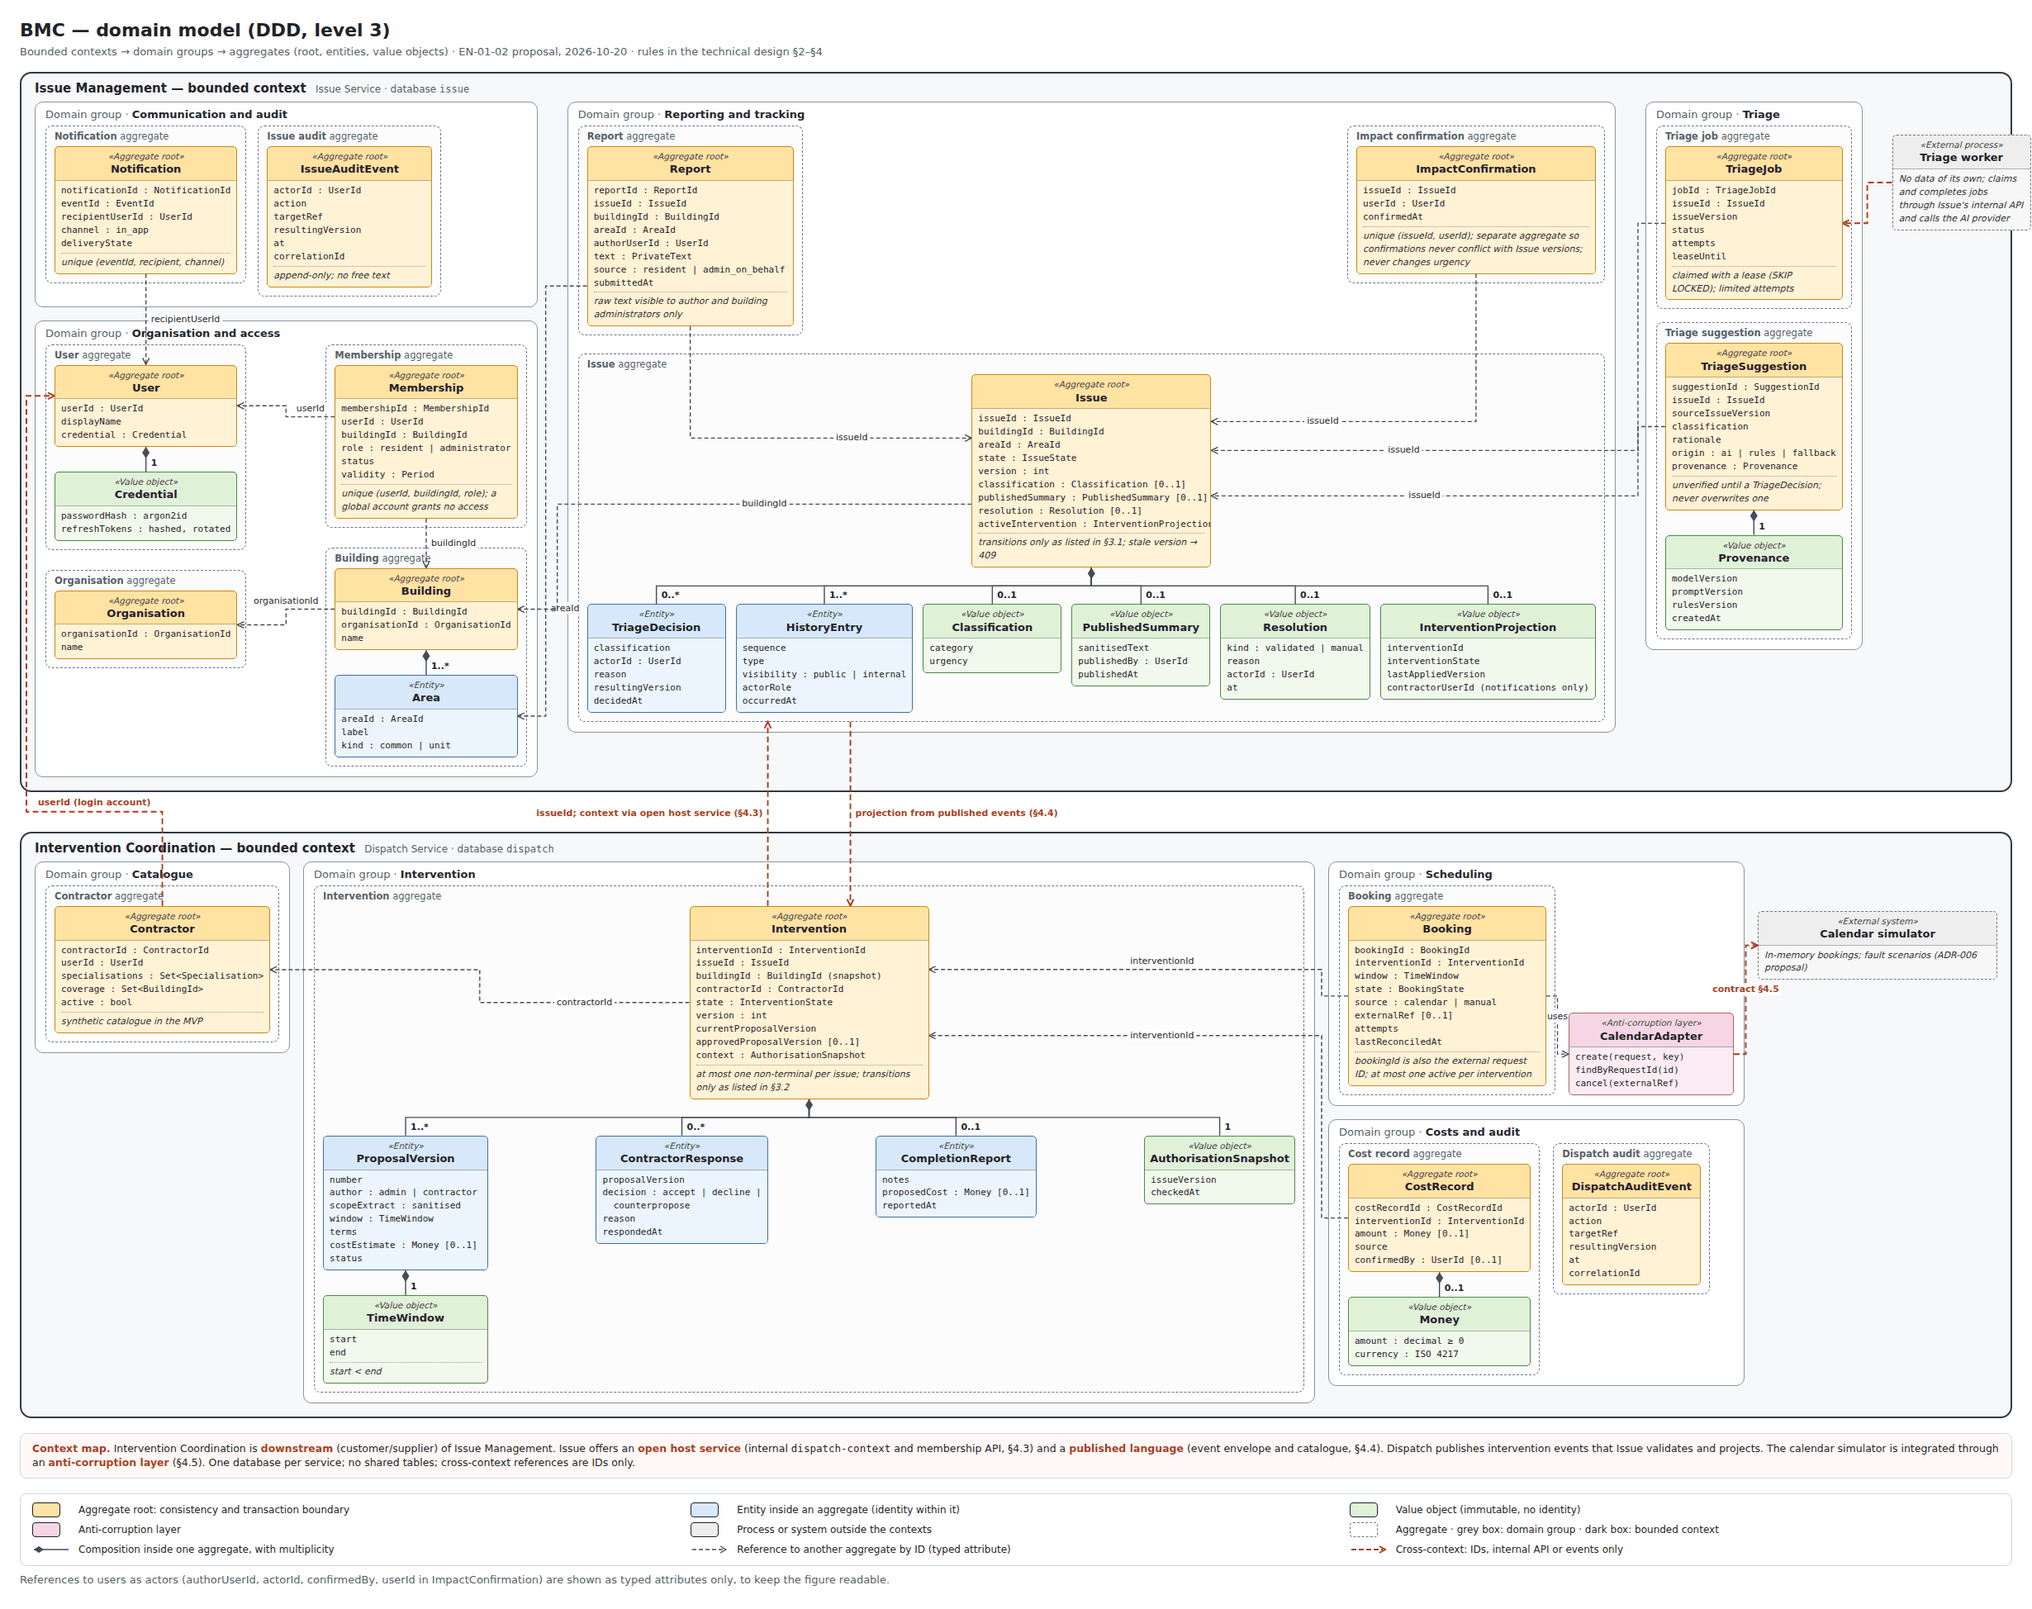
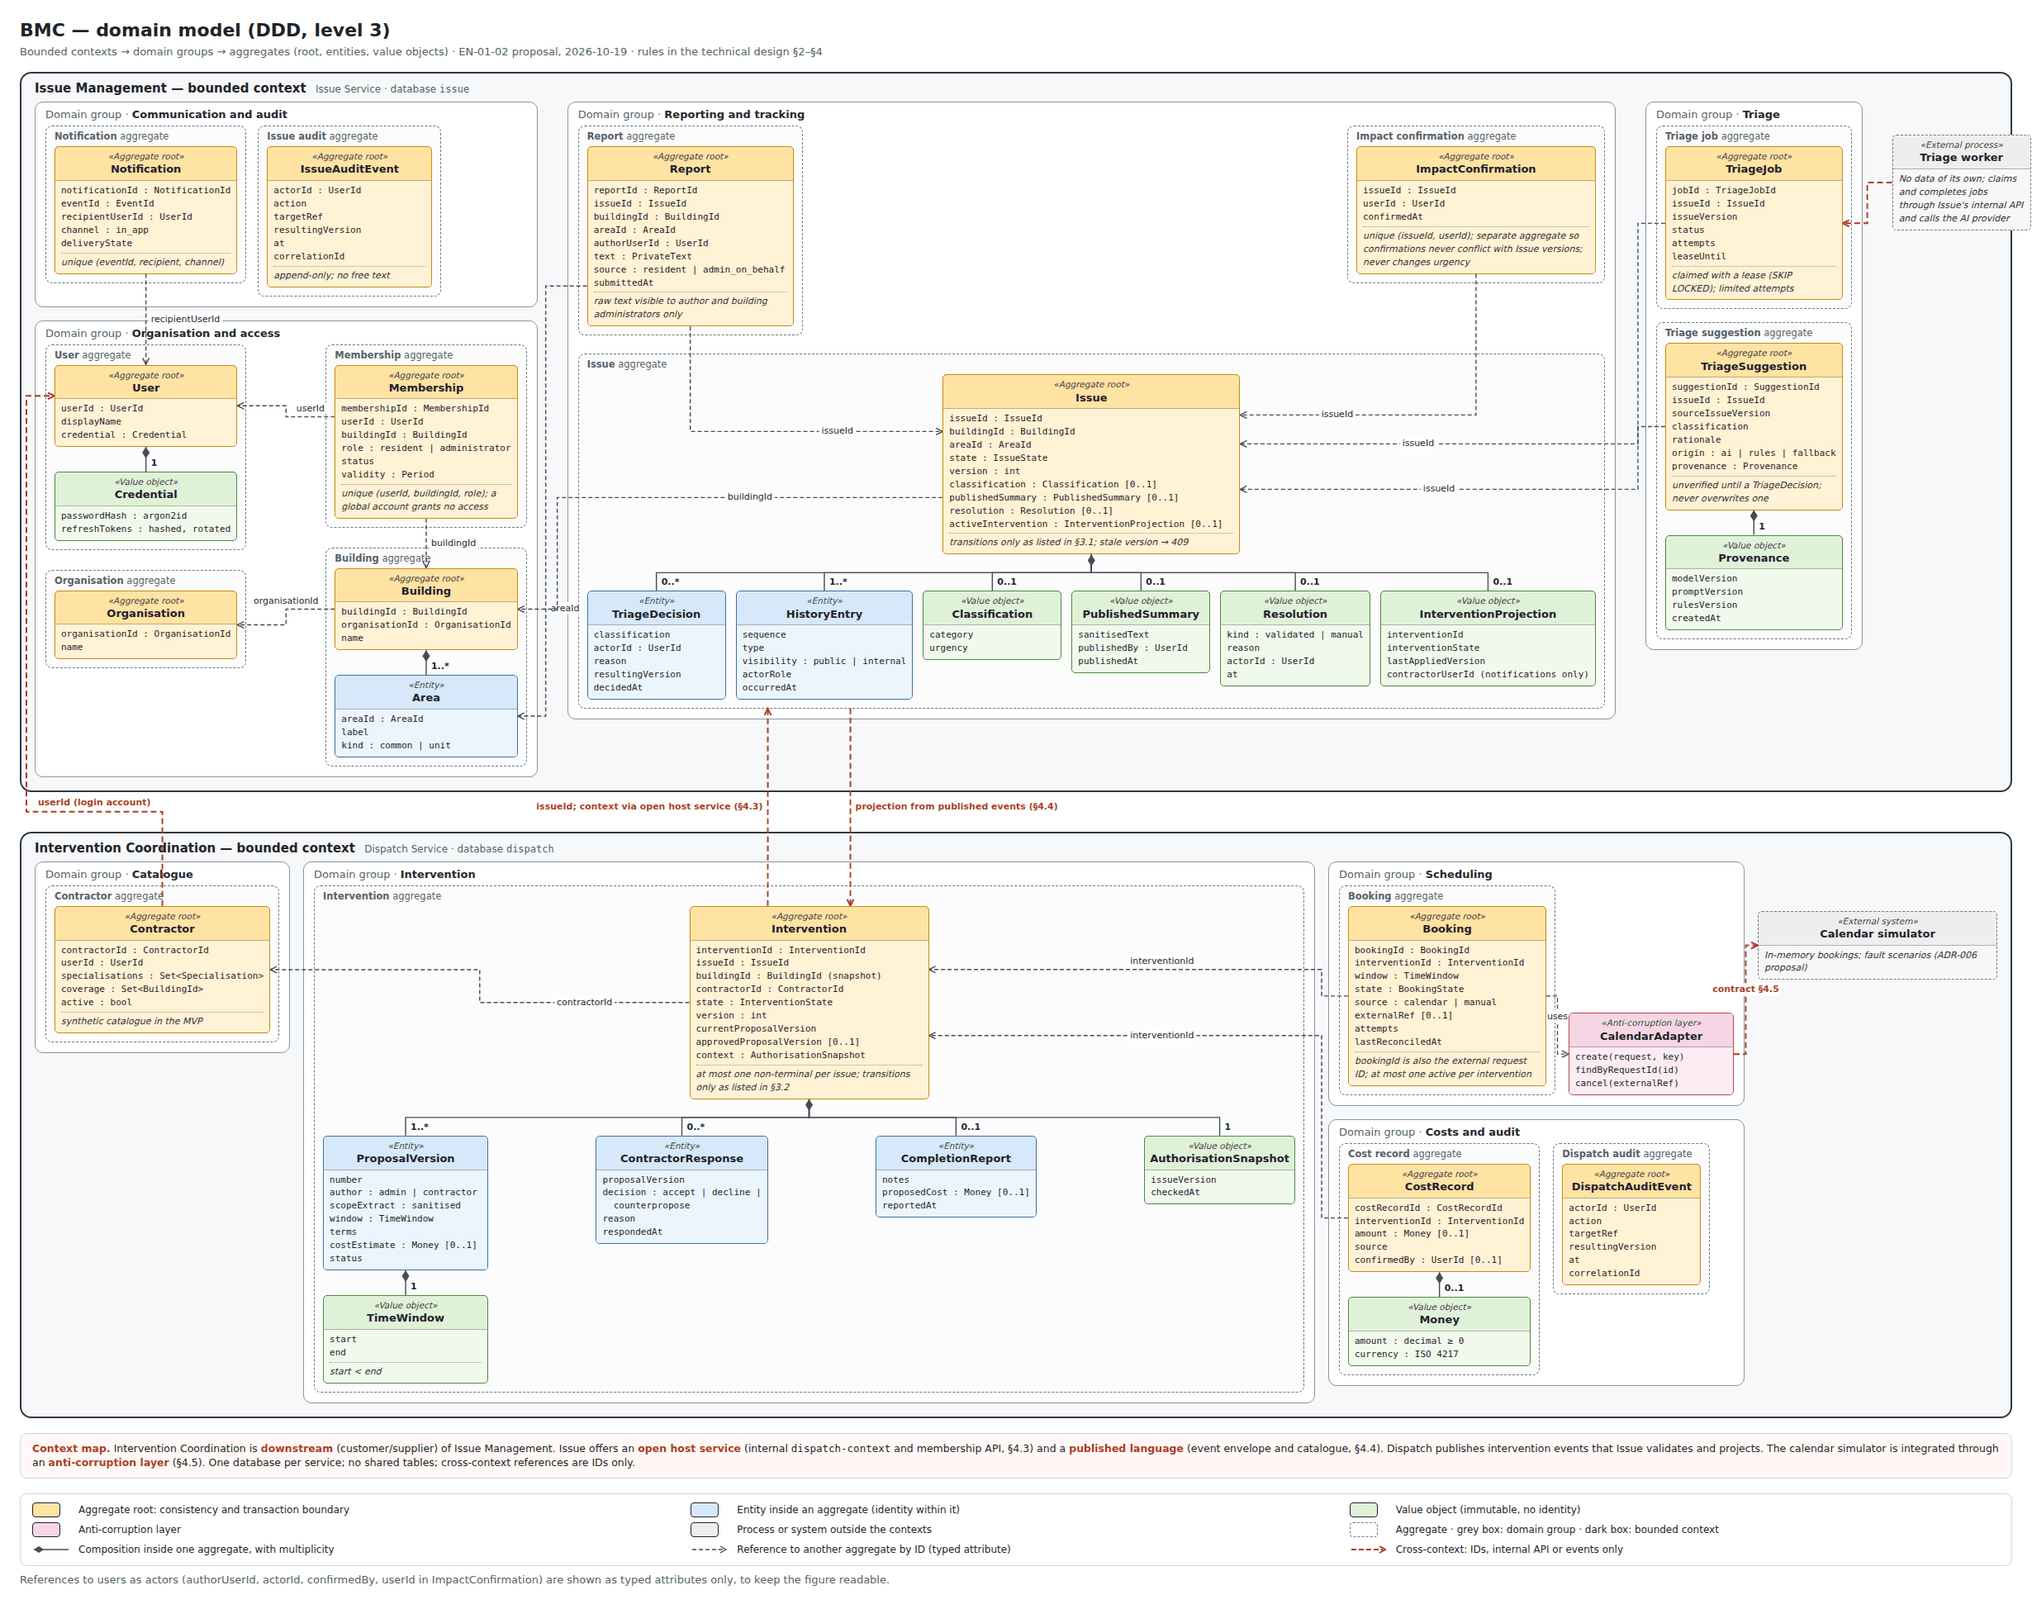
EN-01-02: fix review typos, arithmetic and figure details
Address review L1, L2, L4-L6 and N1-N3 on #44: correct the relay wait total, add in_triage to W1, fix typos and spacing, link both sections for T-04, fix the DISC-03-03 issue link, name the three figure-only types in the text, correct the Figure 1 date, widen the Issue box and export a smaller PNG.

Refs #14

diff --git a/documents/diagrams/domain-model.html b/documents/diagrams/domain-model.html
@@ -73,7 +73,7 @@
 <body>
 <div id="canvas">
   <h1>BMC — domain model (DDD, level 3)</h1>
-  <p class="sub">Bounded contexts → domain groups → aggregates (root, entities, value objects) · EN-01-02 proposal, 2026-10-20 · rules in the technical design §2–§4</p>
+  <p class="sub">Bounded contexts → domain groups → aggregates (root, entities, value objects) · EN-01-02 proposal, 2026-10-19 · rules in the technical design §2–§4</p>
 
   <!-- ===================== ISSUE MANAGEMENT ===================== -->
   <div class="bc" id="BC_ISSUE">
@@ -151,7 +151,7 @@
         </div>
         <div class="agg" id="AGG_ISSUE" style="margin-top:22px">
           <div class="agg-name">Issue</div>
-          <div class="row center"><div class="cls root" id="Issue" style="width:300px"><div class="hd"><span class="st">«Aggregate root»</span><span class="nm">Issue</span></div>
+          <div class="row center"><div class="cls root" id="Issue" style="width:360px;max-width:none"><div class="hd"><span class="st">«Aggregate root»</span><span class="nm">Issue</span></div>
             <ul><li>issueId : IssueId</li><li>buildingId : BuildingId</li><li>areaId : AreaId</li><li>state : IssueState</li><li>version : int</li><li>classification : Classification [0..1]</li><li>publishedSummary : PublishedSummary [0..1]</li><li>resolution : Resolution [0..1]</li><li>activeIntervention : InterventionProjection [0..1]</li>
             <li class="inv">transitions only as listed in §3.1; stale version → 409</li></ul></div></div>
           <div class="row" style="margin-top:44px; gap:12px; justify-content:space-between">

diff --git a/documents/07-technical-design.md b/documents/07-technical-design.md
@@ -27,7 +27,7 @@ Reviewed on 2026-10-19 for EN-01-02 ([Issue: 14](https://github.com/Phenriqueraf
 
 [![Figure 1 — BMC domain model (DDD level 3): the Issue Management and Intervention Coordination bounded contexts, their domain groups, and every aggregate with its root, entities, value objects and references](diagrams/domain-model.png)](diagrams/domain-model.png)
 
-*Figure 1 — Domain model, DDD level 3 ([editable HTML source](diagrams/domain-model.html); open the image for full size).* Each bounded context is one service with its own database. Domain groups collect related aggregates. A dashed frame is an aggregate, the consistency and transaction boundary: one root (yellow) plus its entities (blue) and value objects (green). Other aggregates are referenced by typed IDs only (grey dashed arrows); red arrows are the cross-context relations: IDs, the internal API (§4.3) or published events (§4.4), never shared tables. Two choices are deliberate. `ImpactConfirmation` and `TriageSuggestion` are separate aggregates, so concurrent confirmations and late AI results never conflict with the `Issue` version. `Booking` is separate from `Intervention`, so calendar retries and reconciliation do not lock the intervention. The tables below list the same entities with their journeys.
+*Figure 1 — Domain model, DDD level 3 ([editable HTML source](diagrams/domain-model.html); open the image for full size).* Each bounded context is one service with its own database. Domain groups collect related aggregates. A dashed frame is an aggregate, the consistency and transaction boundary: one root (yellow) plus its entities (blue) and value objects (green). Other aggregates are referenced by typed IDs only (grey dashed arrows); red arrows are the cross-context relations: IDs, the internal API (§4.3) or published events (§4.4), never shared tables. Two choices are deliberate. `ImpactConfirmation` and `TriageSuggestion` are separate aggregates, so concurrent confirmations and late AI results never conflict with the `Issue` version. `Booking` is separate from `Intervention`, so calendar retries and reconciliation do not lock the intervention. The tables below list the same entities with their journeys. Three figure names have no row of their own: `InterventionProjection` is the issue's projection of the active intervention (2.1), `AuthorisationSnapshot` is the snapshot stored by Dispatch (4.3 step 4), and `CalendarAdapter` is the calendar adapter (4.5).
 
 ### 2.1 Issue Service
 
@@ -41,7 +41,7 @@ Reviewed on 2026-10-19 for EN-01-02 ([Issue: 14](https://github.com/Phenriqueraf
 | Report | `id`, `issueId`, `buildingId`, `areaId`, `authorUserId`, private text, source (`resident` or `administrator_on_behalf`), `submittedAt` | J1 steps 1–2; raw text stays private ([access matrix](09-security-privacy.md#2-proposed-access-matrix)) |
 | Issue | `id`, `buildingId`, `areaId`, state, `version`, category, urgency, triage source, optional published summary, resolution (kind, reason, actor, time), projection of the active intervention (`interventionId`, state, last applied `aggregateVersion`, `contractorUserId` used only to address notifications) | 1:N reports; J1 step 4, J2 |
 | Triage job | `id`, `issueId`, `issueVersion`, status, attempts, lease expiry | Created with the report; claimed by the worker (ADR-003 in [Issue: 15](https://github.com/Phenriquerafael/LABDSOF_G9A/issues/15)) |
-| Triage suggestion | `issueId`, source issue version, category, urgency, rationale, origin (`ai`, `rules` or `fallback`), model/prompt/rules versions, time | Labelled unverified until a triage decision have been made ([AI Responsibility  Section: 2](06-responsible-ai-assessment.md#2-baseline-and-fallback)) |
+| Triage suggestion | `issueId`, source issue version, category, urgency, rationale, origin (`ai`, `rules` or `fallback`), model/prompt/rules versions, time | Labelled unverified until a triage decision has been made ([AI Responsibility Section: 2](06-responsible-ai-assessment.md#2-baseline-and-fallback)) |
 | Triage decision | `issueId`, category, urgency, actor, reason, resulting version, time | The [DEC-10](planning/decisions-and-feedback.md#1-open-decisions) “triage decision”; distinct from the suggestion |
 | Impact confirmation | Unique (`issueId`, `userId`), time; withdrawal deletes the row | J1 step 4; never changes urgency (RF-04) |
 | Issue history entry | `issueId`, sequence, type, visibility (`public` or `internal`), actor role, time; includes projected Dispatch events | J1 step 4 and J2; residents see only public entries |
@@ -67,7 +67,7 @@ Both services also hold technical tables for the asynchronous workflow (outbox, 
 
 - Organisation 1:N buildings; building 1:N areas; users N:M buildings through memberships; issue 1:N reports, 0:N interventions (at most one non-terminal); intervention 1:N proposal versions and 0:N bookings (at most one active).
 
-- References across services are IDs only. Neither service reads or writes the other's database; Issue's state reflects Dispatch only through events that Issue validates and applies to its own data ([Section: 3.3](#33-invalid-and-concurrent-transitions),[Section: 4.4](#44-event-contracts)).
+- References across services are IDs only. Neither service reads or writes the other's database; Issue's state reflects Dispatch only through events that Issue validates and applies to its own data ([Section: 3.3](#33-invalid-and-concurrent-transitions), [Section: 4.4](#44-event-contracts)).
 
 - `buildingId` never changes for an issue, so Dispatch may keep it as a snapshot for filtering and audit. Memberships are not copied: they are checked against Issue for each administrator command [Section: 4.3](#43-how-dispatch-obtains-trustworthy-authorisation-context).
 
@@ -75,7 +75,7 @@ Changes from the previous draft, found in the journey review: areas made explici
 
 ## 3. States and business rules
 
-The rules below implement the step definitions in [Produc Vision Section 4.3](04-product-vision.md#43-distinct-steps-dec-10). They are proposals for DEC-10 and still need validation with administrators and contractors.
+The rules below implement the step definitions in [Product Vision Section 4.3](04-product-vision.md#43-distinct-steps-dec-10). They are proposals for DEC-10 and still need validation with administrators and contractors.
 
 ### 3.1 Issue states (owner: Issue)
 
@@ -292,7 +292,7 @@ These values answer EN-01-01's open detail EN01-U7 (#15) as a starting proposal.
 
 | Mechanism | Proposed value |
 |---|---|
-| Outbox relay | Poll every 1 s; backoff 2 s doubling up to 5 min; 10 attempts (about 24 min), then `failed` with controlled replay |
+| Outbox relay | Poll every 1 s; backoff 2 s doubling up to 5 min; 10 attempts (about 14 min of waiting: 2 + 4 + … + 256 + 300 s), then `failed` with controlled replay |
 | Triage job | Lease 45 s (two AI attempts at the 10 s NFR-03 timeout plus rules); 3 claims, then `failed` and visible manual triage |
 | Calendar call | 5 s timeout; 5 attempts with backoff 5 s doubling up to 2 min, reconciling before each re-send; then booking `failed` |
 | Dispatch → Issue context call | 2 s timeout; no retry inside the user request (`503`) |

diff --git a/documents/07a-contract-examples.md b/documents/07a-contract-examples.md
@@ -76,7 +76,7 @@ Idempotency-Key: 1f2e…
   "terms": "Inspect and repair; report cost if known." }
 ```
 
-Before writing, Dispatch asks Issue for the authorisation context ([Techical Design Section: 4.3](07-technical-design.md#43-how-dispatch-obtains-trustworthy-authorisation-context)):
+Before writing, Dispatch asks Issue for the authorisation context ([Technical Design Section: 4.3](07-technical-design.md#43-how-dispatch-obtains-trustworthy-authorisation-context)):
 
 ```http
 GET /internal/issues/0199f2a1-0000-7000-8000-000000002001/dispatch-context?actorId=0199f2a0-0000-7000-8000-000000000201
@@ -274,7 +274,7 @@ The EN-01-02 verification asks the reviewer to walk one successful journey and t
 
 | # | Scenario | Expected outcome | Rule |
 |---|---|---|---|
-| W1 | 1.1–1.6 end to end | Issue `received` → `triaged` → `in_coordination` → `scheduled` → `awaiting_validation` → `resolved`; intervention `awaiting_approval` → `sent` → `scheduling_pending` → `booked` → `completion_reported` → `closed`; one booking | Design 3.1, 3.2 |
+| W1 | 1.1–1.6 end to end | Issue `received` → `in_triage` → `triaged` → `in_coordination` → `scheduled` → `awaiting_validation` → `resolved`; intervention `awaiting_approval` → `sent` → `scheduling_pending` → `booked` → `completion_reported` → `closed`; one booking | Design 3.1, 3.2 |
 | W2 | AI times out during triage | Issue stays `received` or shows fallback; administrator triages manually; a late suggestion does not overwrite the decision | 3.1, 3.3, NFR-03 |
 | W3 | Resident of building B reads or confirms impact on an issue in building A | `404`; no count change | 4.1, [access matrix](09-security-privacy.md#2-proposed-access-matrix), T-01 |
 | W4 | Contractor calls approval, responds to an intervention not assigned to them, or reads `GET /issues/{id}` on Issue | `403` for approval; `404` for the unassigned intervention; `404` on Issue, where contractors have no membership (their view is `GET /interventions?assigned=me`) | 4.2, 4.3 step 2, T-02 |

diff --git a/documents/planning/decisions-and-feedback.md b/documents/planning/decisions-and-feedback.md
@@ -50,7 +50,7 @@ A provisional baseline enables consistent documents; it does not mean approval. 
 
 ### Product scope proposals — DISC-03-03
 
-- **Recorded:** 2026-10-19 by Afonso (BA/PO) for [#14](https://github.com/Phenriquerafael/LABDSOF_GX/issues/14). Team agreement is sought through the pull-request review (proposed reviewer: Martim); until then these are proposals, not stakeholder or lecturer approval, and not evidence for §5.7.
+- **Recorded:** 2026-10-19 by Afonso (BA/PO) for [#31](https://github.com/Phenriquerafael/LABDSOF_G9A/issues/31). Team agreement is sought through the pull-request review (proposed reviewer: Martim); until then these are proposals, not stakeholder or lecturer approval, and not evidence for §5.7.
 - **Evidence used:** secondary findings PS-01–PS-08 ([03 §7.2](../03-user-research.md#72-findings)) and competitor sources S01–S28 ([02 §5](../02-market-and-competitor-analysis.md#5-source-and-findings-register)). No primary research exists; DISC-01-03 is open, so personas and journeys keep their remaining hypotheses explicit.
 - **DEC-01:** exclude IoT from the MVP. Reasons: not required by the assignment; no finding identifies a decision that sensor data would improve; a suite marketed in Portugal already bundles hardware (S04); capacity. Alternative considered: one simulated sensor scenario as Could — rejected because it would not test BMC's proposition.
 - **DEC-08:** primary threshold of a ≥ 30% reduction in active administrative time on equivalent scripted tasks, computed as the median of participant medians against a pre-recorded answer key, with incomplete tasks recorded at the time cap and completion and critical-case guards. Alternatives: 20% (hard to separate from noise in a three-to-five-person sample) and 50% (likely to fail on factors outside the product). The rationale is team judgement, not a sourced benchmark; baseline limitations are disclosed in the vision.

diff --git a/documents/09-security-privacy.md b/documents/09-security-privacy.md
@@ -38,7 +38,7 @@ Check in the backend for each operation; hiding buttons is insufficient. Mock au
 | T-01 | Change ID to read another building | Membership/resource authorisation and data projection | Negative API/list/search tests |
 | T-02 | Contractor approves expenses or reads another request | Permissions and assignment checked on the server | Matrix tests |
 | T-03 | Text induces AI to act/disclose | Apply [AI controls](06-responsible-ai-assessment.md#5-controls-and-communication) | [Adversarial cases and protocol](06-responsible-ai-assessment.md#3-proposed-dataset-and-protocol) |
-| T-04 | Retry duplicates request/booking | Idempotency, versioning and reconciliation ([design §3.3, §4.5](07-technical-design.md#33-invalid-and-concurrent-transitions)) | Failures after external effects and repeated events |
+| T-04 | Retry duplicates request/booking | Idempotency, versioning and reconciliation ([design §3.3](07-technical-design.md#33-invalid-and-concurrent-transitions), [§4.5](07-technical-design.md#45-calendarsimulator-contract-outline)) | Failures after external effects and repeated events |
 | T-05 | Malicious text in UI | Safe rendering, input validation | Non-executable content tests |
 | T-06 | Logs/payloads expose data | Minimisation, sanitisation and restricted access | Log and payload inspection |
 | T-07 | Tokens/secrets in Git | Environment injection, review/secret checks | CI and review evidence |
